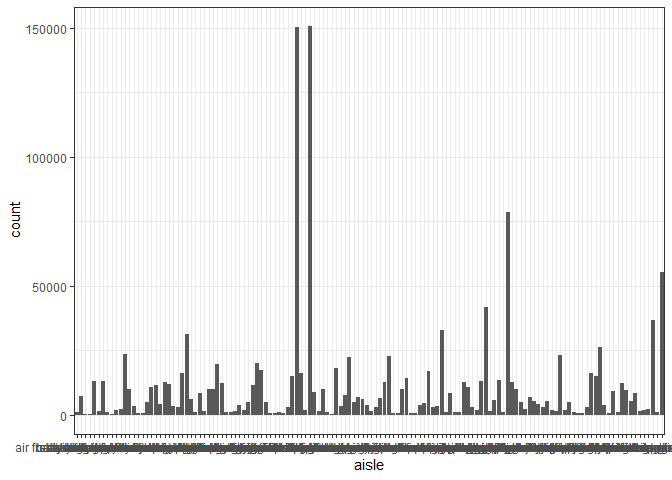
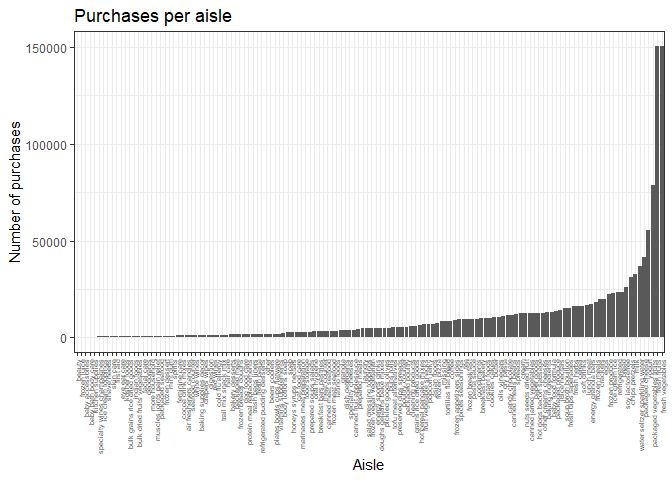
Finally figured out how to present the distribution of certain questions as hex plots and histograms. Went through and made sure commentary was applied to every single answer.

diff --git a/p8105_hw3_baw2160.md b/p8105_hw3_baw2160.md
@@ -3,20 +3,18 @@ p8105\_hw3\_baw2160
 Bryce Wong
 October 8, 2018
 
-knitr::opts\_chunk$set( fig.width = 6, fig.asp = .6, out.width = "90%" )
-
 ``` r
 library(tidyverse)
 ```
 
-    ## -- Attaching packages ------------------------------------------------------------- tidyverse 1.2.1 --
+    ## -- Attaching packages ------------ tidyverse 1.2.1 --
 
     ## v ggplot2 3.0.0     v purrr   0.2.5
     ## v tibble  1.4.2     v dplyr   0.7.6
     ## v tidyr   0.8.1     v stringr 1.3.1
     ## v readr   1.1.1     v forcats 0.3.0
 
-    ## -- Conflicts ---------------------------------------------------------------- tidyverse_conflicts() --
+    ## -- Conflicts --------------- tidyverse_conflicts() --
     ## x dplyr::filter() masks stats::filter()
     ## x dplyr::lag()    masks stats::lag()
 
@@ -57,7 +55,7 @@ library(p8105.datasets)
 
 -   Formatted the data to use appropriate variable names.
 -   Focused on the “Overall Health” topic.
--   Include only responses from "Excellent" to "Poor"
+-   Included only responses from "Excellent" to "Poor"
 -   Organized responses as a factor taking levels from “Excellent” to “Poor”
 
 ``` r
@@ -81,70 +79,77 @@ states_with_7_obs = brfss_data %>%
   filter(n == 7)
 ```
 
-**Answer:** CT, FL, NC
+**Answer:** CT, FL, NC - only 3 out of 51 possible locations had observations in 7 distinct counties. This could make the data for these states more complete, but more difficult to compare with other states (which may not be as representative).
 
--   Make a “spaghetti plot” that shows the number of observations in each state from 2002 to 2010.
+-   "Spaghetti plot” that shows the number of observations in each state from 2002 to 2010:
 
 ``` r
 counts_per_state = distinct(brfss_data, Location_County, .keep_all = TRUE) %>% 
   count(Location_State, Year) 
-ggplot(counts_per_state, aes(x = Year, y = n, group = Location_State)) +
-  geom_line(aes(color = Location_State), alpha = .5)
+ggplot(counts_per_state, aes(x = Year, y = n, group = Location_State)) + 
+  geom_line(aes(color = Location_State)) +
+  labs(
+    title = "Observations in each state over the years",
+    x = "Year",
+    y = "Observations"
+  )
 ```
 
 ![](p8105_hw3_baw2160_files/figure-markdown_github/unnamed-chunk-5-1.png)
 
--   Make a table showing, for the years 2002, 2006, and 2010, the mean and standard deviation of the proportion of “Excellent” responses across locations in NY State.
+It looks like there were few observations for most states early on - they really pick up towards the latter end of the timeframe. There appears to be a state that is a huge outlier, with more observations than the others.
+
+-   Table showing, for the years 2002, 2006, and 2010, the mean and standard deviation of the proportion of “Excellent” responses across locations in NY State:
 
 ``` r
-NY_data = brfss_data %>% 
+NY_brfss_data = brfss_data %>% 
   group_by(Location_State, Year) %>% 
   spread(key = Response, value = Proportion) %>% 
   filter(Location_State == "NY", Year %in% c("2002", "2006", "2010")) %>% 
-  summarize(mean_excellent = mean(Excellent, na.rm = TRUE),
-            sd_excellent = sd(Excellent, na.rm = TRUE)) %>% 
+  summarize(Mean_Excellent = mean(Excellent, na.rm = TRUE),
+            SD_Excellent = sd(Excellent, na.rm = TRUE)) %>% 
   knitr::kable(digits = 1)
-NY_data
+NY_brfss_data
 ```
 
-| Location\_State |  Year|  mean\_excellent|  sd\_excellent|
+| Location\_State |  Year|  Mean\_Excellent|  SD\_Excellent|
 |:----------------|-----:|----------------:|--------------:|
 | NY              |  2002|             24.0|            4.5|
 | NY              |  2006|             22.5|            4.0|
 | NY              |  2010|             22.7|            3.6|
 
--   For each year and state, compute the average proportion in each response category (taking the average across locations in a state). Make a five-panel plot that shows, for each response category separately, the distribution of these state-level averages over time.
+The mean and standard deviation of the proportion of "Excellent" responses across New York seem pretty stable from year to year. A little under a fourth (~25%) of respondents seem to find their health "Excellent" in New York, with a standard deviation of roughly 4%.
+
+-   For each year and state, computed the average proportion in each response category (taking the average across locations in a state). Made a five-panel plot that shows, for each response category separately, the distribution of these state-level averages over time:
 
 ``` r
-state_avgs = brfss_data %>%
+state_response_avgs = brfss_data %>%
   spread(key = Response, value = Proportion) %>% 
   group_by(Year, Location_State) %>% 
   janitor::clean_names() %>% 
   summarize(
-    avg_excellent = mean(excellent, na.rm = TRUE), 
-    avg_good = mean(good, na.rm = TRUE), 
-    avg_verygood = mean(very_good, na.rm = TRUE),
-    avg_fair = mean(fair, na.rm = TRUE),
-    avg_poor = mean(poor, na.rm = TRUE)
-  )  
-gather(state_avgs, key = health_score, value = averages, avg_excellent:avg_poor) %>%
-  ggplot(aes(x = Year, fill = Location_State)) +
-  geom_density(alpha = .5) +
-  facet_grid(~health_score) + 
-  viridis::scale_fill_viridis(discrete = TRUE)
+    Avg_Excellent = mean(excellent, na.rm = TRUE), 
+    Avg_Good = mean(good, na.rm = TRUE), 
+    Avg_Very_Good = mean(very_good, na.rm = TRUE),
+    Avg_Fair = mean(fair, na.rm = TRUE),
+    Avg_Poor = mean(poor, na.rm = TRUE)
+  ) %>% 
+  gather(key = health_score, value = averages, Avg_Excellent:Avg_Poor)
+
+ggplot(state_response_avgs, aes(x = Year, y = averages)) + 
+  geom_hex() +
+  facet_grid(~health_score) +
+  theme(axis.text.x = element_text(angle = 90, hjust = 1, vjust = 0.5, size = 5)) +
+  labs(
+    title = "Distributions of state averages across the years",
+    x = "Year",
+    y = "Average proportion per state"
+  )
 ```
 
-    ## Warning: Groups with fewer than two data points have been dropped.
-
-    ## Warning: Groups with fewer than two data points have been dropped.
-
-    ## Warning: Groups with fewer than two data points have been dropped.
-
-    ## Warning: Groups with fewer than two data points have been dropped.
-
-    ## Warning: Groups with fewer than two data points have been dropped.
-
 ![](p8105_hw3_baw2160_files/figure-markdown_github/unnamed-chunk-7-1.png)
+
+The dsitribution of state averages in each response category seem pretty stable across the years. The distribution seems the widest in the "Very Good" category, and the smallest in the "Poor" category. The highest proportion of respondents are generally in the "Very Good" category, with fewer falling in the "Fair" and "Poor" categories.
 
 Problem 2:
 ----------
@@ -167,12 +172,14 @@ grouped_orders = instacart %>%
 avg_days_btw_orders = mean(grouped_orders$days_since_prior_order)
 median_days_btw_orders = median(grouped_orders$days_since_prior_order)
 sd_days_btw_orders = sd(grouped_orders$days_since_prior_order)
+
+popular_order_days = instacart %>% 
+  count(order_dow) %>% 
+  arrange(desc(n))
 ```
 
-most\_frequent\_day = tail(names(sort(table(grouped\_orders$order\_dow))), 1)
-
 -   Size of the data: 1384617 observations, with 15 variables.
--   Structure of the data: a dataframe that is organized as a table. Seems pretty tidy, as each variable isn't a category of an overall variable. Each row of the table appears to correspond to a single purchase.Purchases bought together are classified with a unique order ID and each order is attributed to a user with a unqiue user ID.
+-   Structure of the data: a dataframe that is organized as a table. Seems pretty tidy, as each variable isn't a category of an overall variable. Each row of the table appears to correspond to a single purchase. Purchases bought together are classified with a unique order ID and each order is attributed to a user with a unique user ID.
 
 -   Key variables include:
     -   order\_id: unique number to identify the order
@@ -187,14 +194,11 @@ most\_frequent\_day = tail(names(sort(table(grouped\_orders$order\_dow))), 1)
     -   The "bulk" department has been ordered from the least
     -   The "produce" department is the msot popular department to order from
     -   On average, there are 17.0661259 days between orders from the same user
-    -   There is a pretty wide spread on this though - the standard deviation is roughly 10 and a half days
+        -   There is a pretty wide spread on this though - the standard deviation is roughly 10 and a half days
+    -   The most frequent day of the week that things are ordered is: 0 (which I'm guessing is Sunday)
 
-    DO BELOW?
--   The most frequent day of the week that things are ordered is: 0 (which I'm guessing is Sunday)
--   Produce is most frequently bought on this day of the week ----------------------------------------
-
-Answering some questions (commenting on the results of each):
--------------------------------------------------------------
+Answering some questions:
+-------------------------
 
 ``` r
 purchases_per_aisle = instacart %>% 
@@ -203,23 +207,34 @@ purchases_per_aisle = instacart %>%
 ```
 
 -   How many aisles are there, and which aisles are the most items ordered from?
-    -   **Answer:** There are 134 aisles
-    -   **Answer:** The aisle the most items are ordered from are "fresh vegetables" and "fresh fruits"
--   Make a plot that shows the number of items ordered in each aisle. Order aisles sensibly, and organize your plot so others can read it.
+    -   **Answer:** There are 134 aisles - this is significantly more than the number of departments there are, so likely each department has (on average) 6 or so aisles.
+    -   **Answer:** The aisle the most items are ordered from are "fresh vegetables" and "fresh fruits" - interesting, because these are online orders. Apparently a lot of customers are using most of their online grocery purchases to buy fresh produce. This doesn't necessarily mean that they prefer using the internet to buy this type of product. It could mean that they just need to buy this type of product more frequently when making online grocery purchases (which makes sense, since organic material is bound to spoil faster).
+-   Made a plot that shows the number of items ordered in each aisle:
 
 ``` r
-aisle_plot = instacart %>% 
+aisle_purchases_plot = instacart %>% 
   mutate(
     aisle = as.factor(aisle)
-  )
+  ) %>% 
+  count(aisle)
 
-ggplot(instacart, aes(x = aisle)) +
-  geom_bar()
+aisle_purchases_plot %>%
+  mutate(aisle = fct_reorder(aisle, n)) %>%
+  ggplot( aes(x = aisle, y = n)) +
+    geom_bar(stat = "identity") +
+  theme(axis.text.x = element_text(angle = 90, hjust = 1, vjust = 0.5, size = 5)) +
+  labs(
+    title = "Purchases per aisle",
+    x = "Aisle",
+    y = "Number of purchases"
+  )
 ```
 
 ![](p8105_hw3_baw2160_files/figure-markdown_github/unnamed-chunk-10-1.png)
 
--   Make a table showing the most popular item in each of the aisles “baking ingredients”, “dog food care”, and “packaged vegetables fruits”.
+This plot reveals an exponential curve, telling us that people are potentially buying the majority of their online groceries from only a few aisles.
+
+-   Made a table showing the most popular item in each of the aisles “baking ingredients”, “dog food care”, and “packaged vegetables fruits”:
 
 ``` r
 popular_items_by_aisle = instacart %>% 
@@ -236,43 +251,57 @@ popular_items_by_aisle = instacart %>%
 | dog food care              | Snack Sticks Chicken & Rice Recipe Dog Treats |    30|
 | packaged vegetables fruits | Organic Baby Spinach                          |  9784|
 
--   Make a table showing the mean hour of the day at which Pink Lady Apples and Coffee Ice Cream are ordered on each day of the week; format this table for human readers (i.e. produce a 2 x 7 table).
+The most popular item in "dog food care" isn't as objectively popular as other items - but compared to other "dog food care" items, it is. Of the most popular products in these 3 categories, "Organic Baby Spinach" has the highest absolute number.
+
+-   Made a table showing the mean hour of the day at which Pink Lady Apples and Coffee Ice Cream are ordered on each day of the week; formatted this table for human readers (i.e. produced a 2 x 7 table):
 
 ``` r
 mean_hours_dow_apples_icecream = instacart %>% 
   filter(product_name %in% c("Pink Lady Apples", "Coffee Ice Cream")) %>% 
-  group_by(order_dow) %>% 
+  group_by(order_dow, product_name) %>% 
   summarize(mean_hour = mean(order_hour_of_day)) %>% 
   spread(key = order_dow, value = mean_hour) %>% 
   knitr::kable(digits = 1)
 ```
 
-|     0|     1|     2|     3|     4|     5|     6|
-|-----:|-----:|-----:|-----:|-----:|-----:|-----:|
-|  13.6|  12.2|  12.8|  14.7|  13.2|  12.6|  13.2|
+| product\_name    |     0|     1|     2|     3|     4|     5|     6|
+|:-----------------|-----:|-----:|-----:|-----:|-----:|-----:|-----:|
+| Coffee Ice Cream |  13.8|  14.3|  15.4|  15.3|  15.2|  12.3|  13.8|
+| Pink Lady Apples |  13.4|  11.4|  11.7|  14.2|  11.6|  12.8|  11.9|
+
+The hour that coffee ice cream and pink lady apples are respectively bought during seem pretty stable across the days of the week. Customers seem to buy cofee ice cream later in the day during the middle of the week. They seem to buy pink lady apples later in the day during the beginning and middle of the week.
 
 Problem Three:
 --------------
 
 ### Description of NYNOAA dataset:
 
+``` r
+number_of_stations = ny_noaa %>% 
+  count(id)
+```
+
 -   The dataset has 2595176 observations with 7 variables.
+    -   There are 747 unique weather stations at which the observations are made.
 -   The dataset is organized into a table/data frame with each row corresponding to an observation made at a specific weather station on a specific date. The observation includes information about the weather during that day at that location.
 -   Some key variables include:
     -   date: The day, month, and year that the observation was recorded
     -   prcp, snow, snwd: These are weather measurements taken during the observation. They represent the amount of preciptation, snowfall, and snowdepth at that location on that day.
     -   tmax, tmin: These are temperature measurements taken during the observation. They represent the maximum temperature and minimum temperature during that day at that location.
--   There does seem to be a lot of missing data - specifically in the tmax and tmin variables. This may be problematic if we want to get an idea of temperature trends or groupings.
+-   There does seem to be a lot of missing data - specifically in the tmax and tmin variables. This may be problematic if we want to get an idea of temperature trends or other patterns.
 
 ### Data cleaning:
 
-Do some data cleaning. Create separate variables for year, month, and day. Ensure observations for temperature, precipitation, and snowfall are given in reasonable units. For snowfall, what are the most commonly observed values? Why?
+-   Created separate variables for year, month, and day.
+-   Changed observations for precipitation to match the units for snowfall and temperature.
 
 ``` r
 cleaned_nynoaa = ny_noaa %>% 
-  separate(date, into = c("year", "month", "date"), sep = "-") %>% 
+  separate(date, into = c("year", "month", "date"), sep = "-") %>%
   mutate(
-    prcp = prcp * 10
+    tmax = as.numeric(tmax) / 10,
+    tmin = as.numeric(tmin) / 10,
+    prcp = prcp / 10
   )
 
 snow_nynoaa = cleaned_nynoaa %>% 
@@ -280,11 +309,11 @@ snow_nynoaa = cleaned_nynoaa %>%
   arrange(min_rank(desc(n)))
 ```
 
-It seems like the most commonly observed values are 0 and "NA". This could be because the obeservations were not often made in an hour that sees a lot of snow, or observations were not made during a time when snowfall is common.
+It seems like the most commonly observed values for snowfall are 0 and "NA". This could be because the obeservations were not often made in an area that sees a lot of snow, or observations were not made during a time when snowfall is common. The amount of "NA" observations reveals that there are a lot of missing values for snowfall in the data.
 
-### Making some plots: (commenting on the results of each):
+### Making some plots:
 
-Make a two-panel plot showing the average max temperature in January and in July in each station across years. Is there any observable / interpretable structure? Any outliers?
+-   Made a two-panel plot showing the average max temperature in January and in July in each station across years:
 
 ``` r
 tmax_jan_july = cleaned_nynoaa %>% 
@@ -296,28 +325,66 @@ tmax_jan_july = cleaned_nynoaa %>%
   summarise(
     mean_tmax = mean(tmax, na.rm = TRUE)
   )
-ggplot(tmax_jan_july, aes(x = id, y = mean_tmax)) +
-  geom_point(aes(color = month), alpha = .5) +
-  facet_grid(~month) 
+ggplot(tmax_jan_july, aes(x = id, y = mean_tmax, color = month)) +
+  geom_point(alpha = .5) +
+  geom_smooth(se = FALSE) +
+  facet_grid(~month) +
+  theme(axis.text.x = element_blank()) +
+  labs(
+    title = "Average max temperatures in Jan and July",
+    x = "Weather Stations",
+    y = "Average Max Temp (Degrees Celcius)"
+  )
 ```
+
+    ## `geom_smooth()` using method = 'loess' and formula 'y ~ x'
+
+    ## Warning: Removed 876 rows containing non-finite values (stat_smooth).
 
     ## Warning: Removed 876 rows containing missing values (geom_point).
 
-![](p8105_hw3_baw2160_files/figure-markdown_github/unnamed-chunk-14-1.png) Make a two-panel plot showing (i) tmax vs tmin for the full dataset (note that a scatterplot may not be the best option);
+![](p8105_hw3_baw2160_files/figure-markdown_github/unnamed-chunk-15-1.png)
+
+It looks like the average max temperature for stations in January hover around 0 degrees Celcius. It looks as if average max temperature for stations in July are more centered around the upper 20s. The spread for max temperature also appears to be larger in January than in July. There appear to be a few outliers in the month of January. The right-skewed nature of the scatterplot tells us that a lot of observations are missing for nearly half the dataset.
+
+-   Made a two-panel plot showing tmax vs tmin for the full dataset:
 
 ``` r
-tmax_and_tmin = gather(ny_noaa, key = temp_type, value = temp_value, tmax:tmin) %>%
-  ggplot(aes(x = year, fill = id)) +
-  geom_line(alpha = .5) +
-  facet_grid(~temp_type) + 
-  viridis::scale_fill_viridis(discrete = TRUE)
+tmax_and_tmin = cleaned_nynoaa %>% 
+  gather(key = temp_type, value = temp_value, tmax:tmin) 
+
+ggplot(tmax_and_tmin, aes(x = temp_value, fill = temp_type)) + 
+  geom_histogram() +
+  facet_grid(~temp_type) +
+  labs(
+    title = "Maximum and minimum temperatures",
+    x = "Temperature (in degrees Celcius)",
+    y = "Observations"
+  )
 ```
 
-and (ii) make a plot showing the distribution of snowfall values greater than 0 and less than 100 separately by year.
+    ## `stat_bin()` using `bins = 30`. Pick better value with `binwidth`.
+
+    ## Warning: Removed 2268778 rows containing non-finite values (stat_bin).
+
+![](p8105_hw3_baw2160_files/figure-markdown_github/unnamed-chunk-16-1.png)
+
+It appears as if the majority of tmin observations were around the 0 degrees Celcius mark, while most of the tmax observations were shifted a little bit higher. It also appears as if the distributions for each are bell-shaped, with more of a tail in the lower (left) end.
+
+-   Made a plot showing the distribution of snowfall values greater than 0 and less than 100 separately by year.
 
 ``` r
 snow_dist = cleaned_nynoaa %>% 
-  filter(snow > 0 & snow < 100) %>% 
-  ggplot(aes(x = year, y = snow)) + 
-  geom_boxplot()
+  filter(snow > 0 & snow < 100) 
+ggplot(snow_dist, aes(x = year, y = snow)) + 
+  geom_hex() +
+  labs(
+    title = "Distribution of snowfall between 0 and 100",
+    x = "Year",
+    y = "Snowfall in mm"
+  )
 ```
+
+![](p8105_hw3_baw2160_files/figure-markdown_github/unnamed-chunk-17-1.png)
+
+There appears to be a lot of whitespace, which might mean that these are all the areas where there is missing data. The distribution gets darker the more snowfall there is, indicating that there are less observations with this much snowfall. The colors seem pretty consistent across the x-axis, indicating that there isn't as much variation year to year in how many observations there are per an amount of snow.
